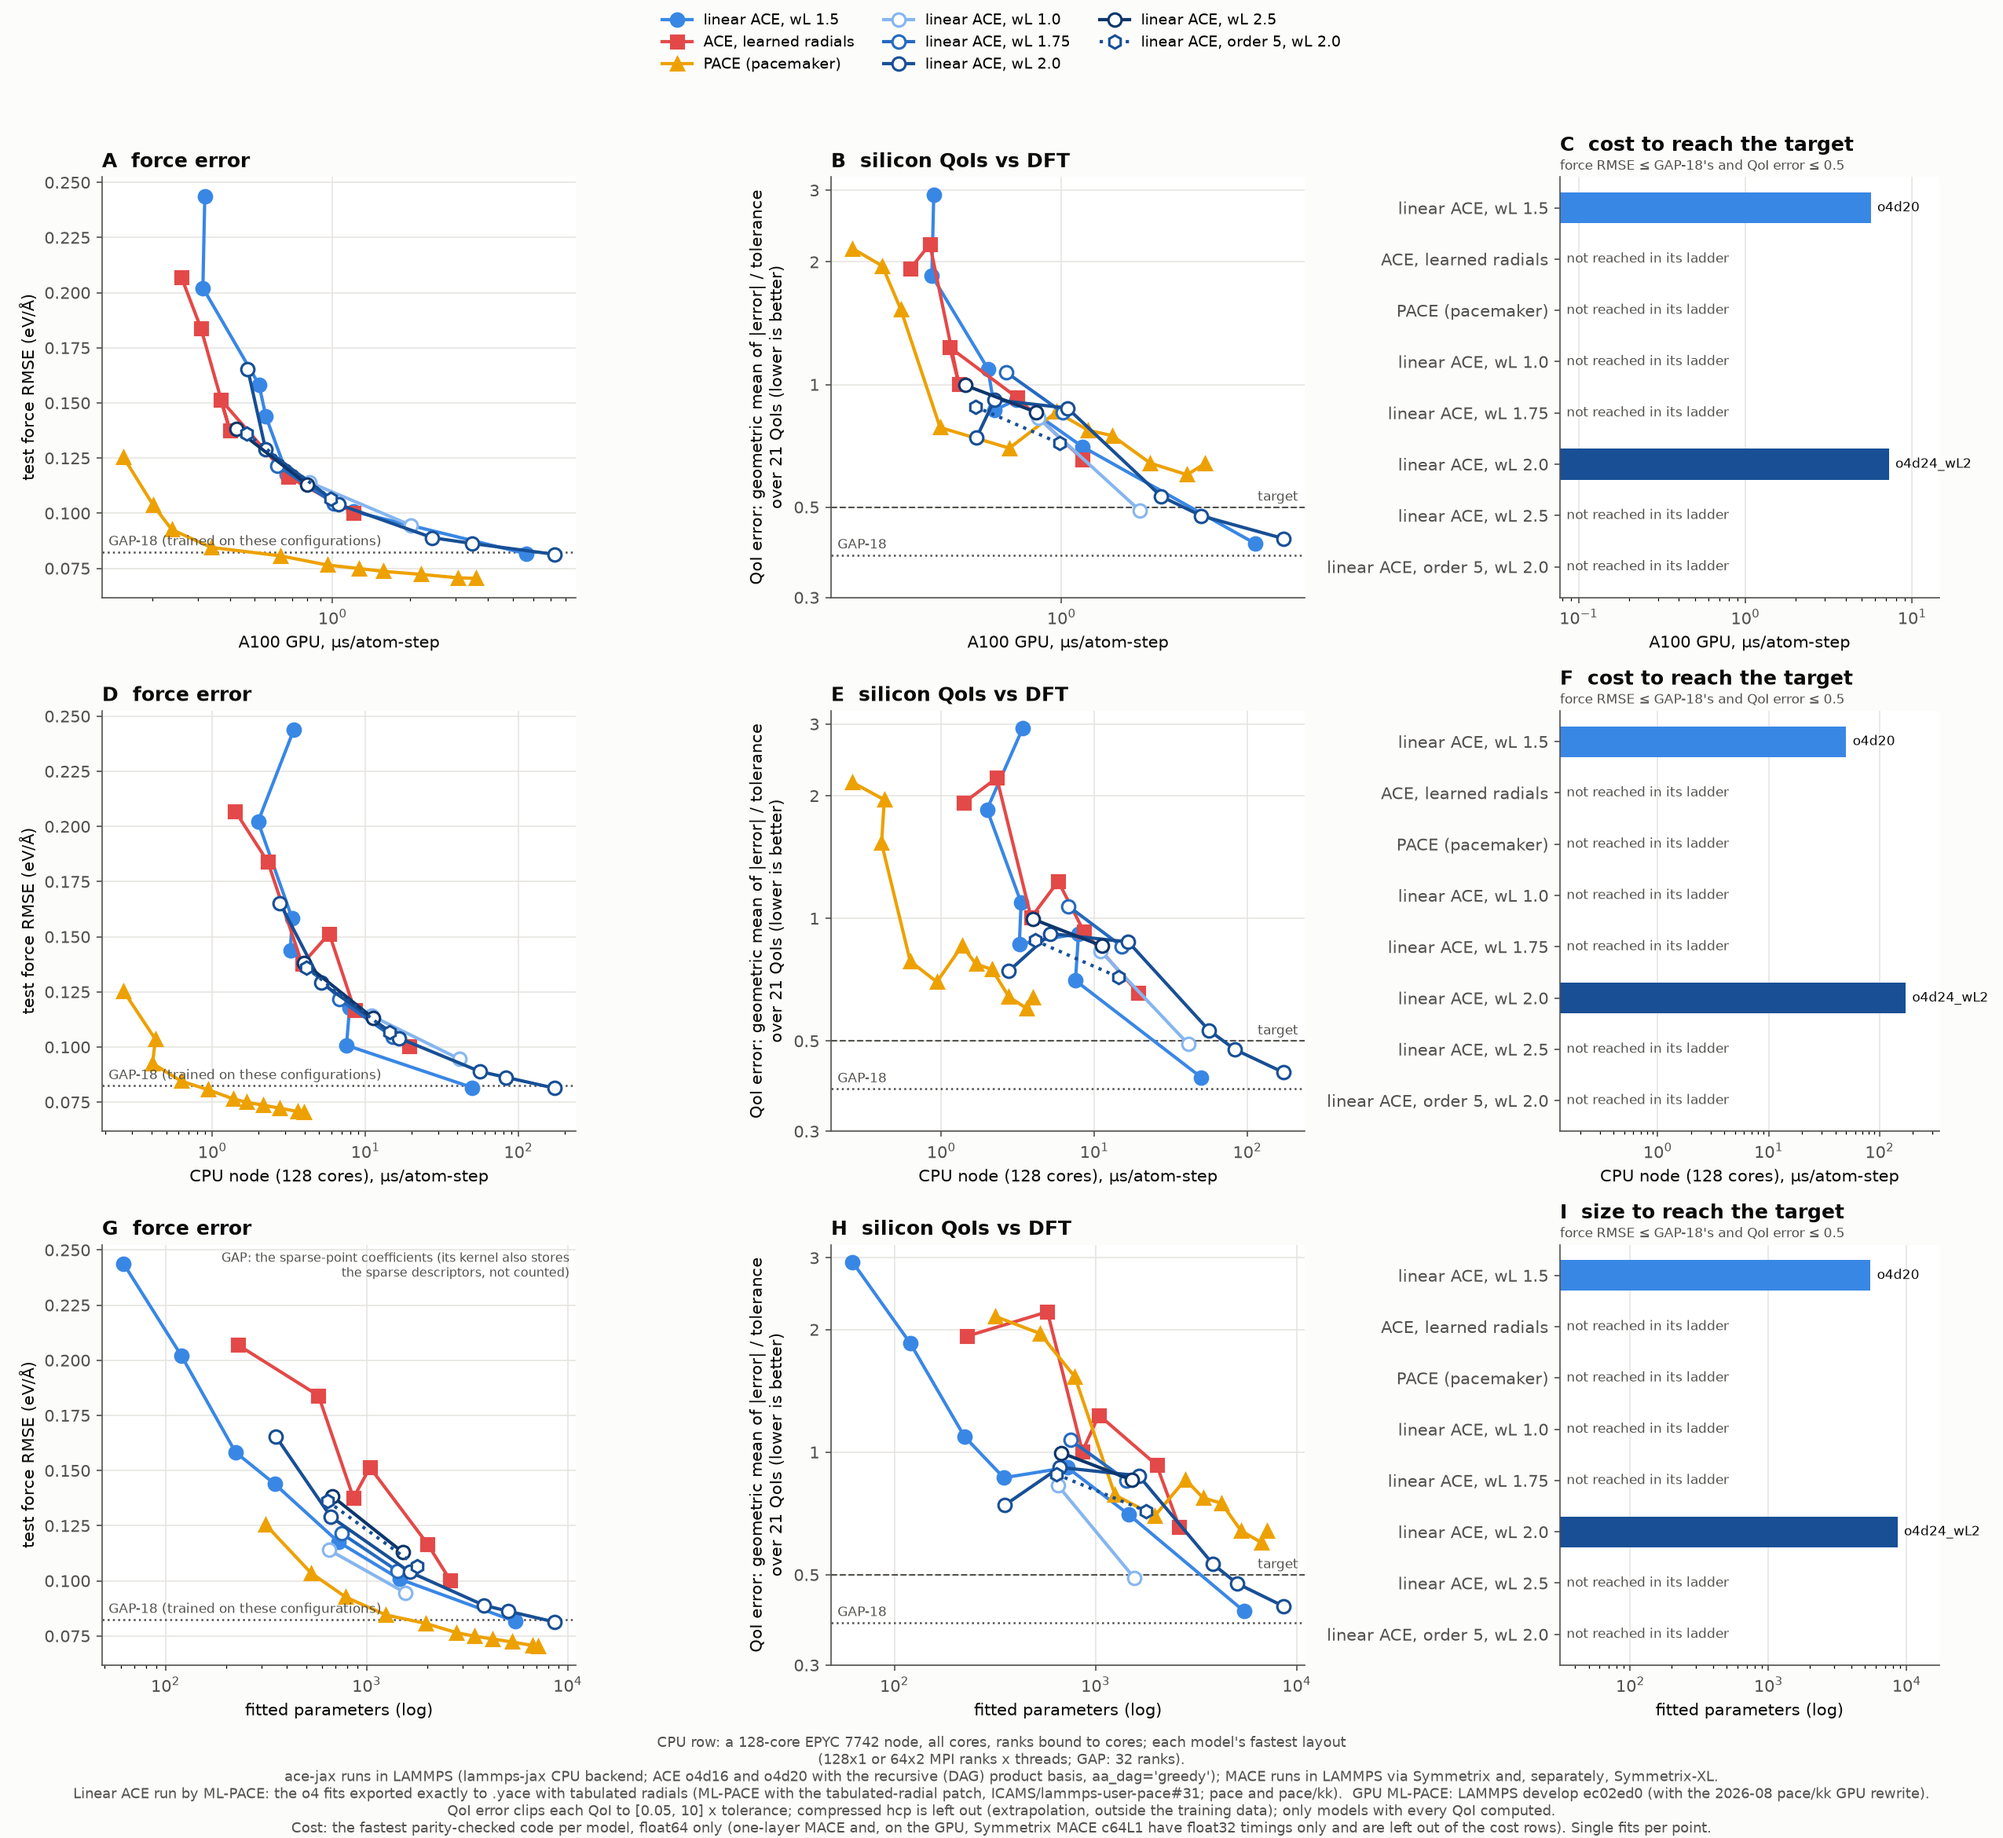
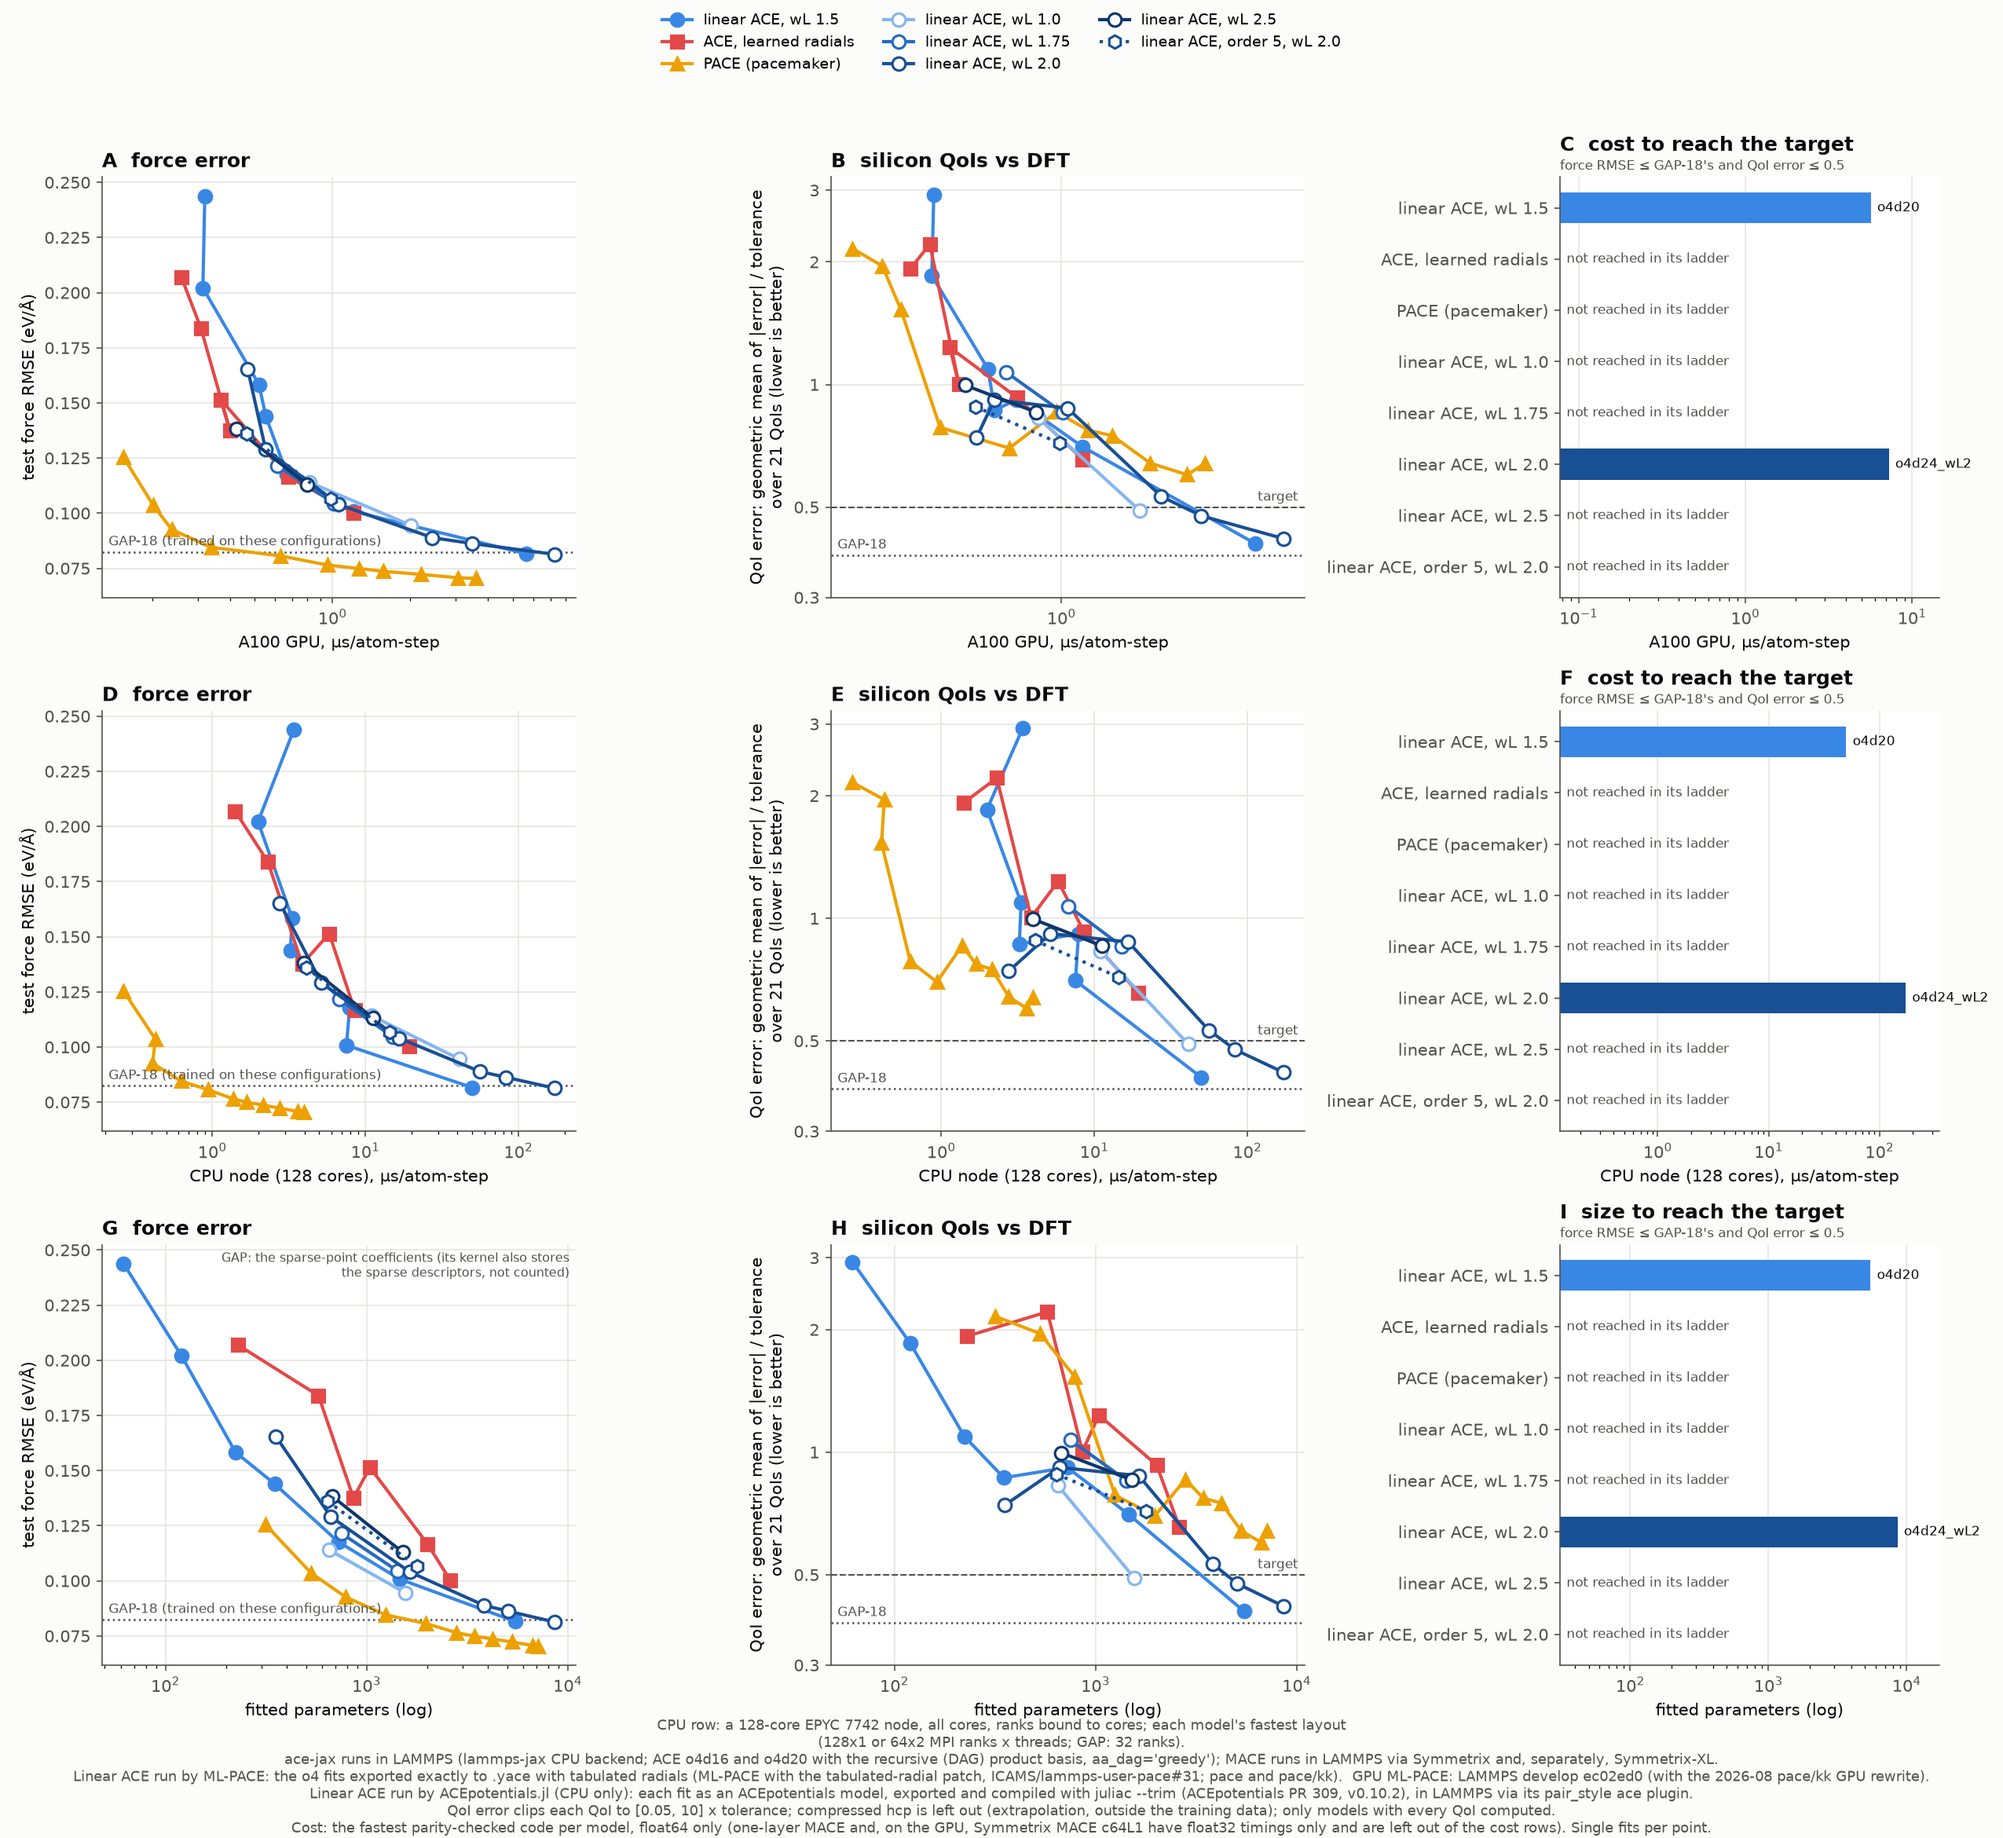
bench(accuracy-cost): ACEpotentials.jl trim rows on the Sulis CPU node, cost plots and results

Changed region(s): [[0.062, 0.9359, 0.9604, 0.9983]]

diff --git a/bench/si_qoi/plot_cost.py b/bench/si_qoi/plot_cost.py
@@ -284,6 +284,8 @@ def main():
                 "ace-jax runs in LAMMPS (lammps-jax CPU backend; ACE o4d16 and o4d20 with the recursive (DAG) product basis, aa_dag='greedy'); MACE runs in LAMMPS via Symmetrix and, separately, Symmetrix-XL.\n"
                 "Linear ACE run by ML-PACE: the o4 fits exported exactly to .yace with tabulated radials (ML-PACE with the tabulated-radial patch, ICAMS/lammps-user-pace#31; pace and pace/kk).  "
                 "GPU ML-PACE: LAMMPS develop ec02ed0 (with the 2026-08 pace/kk GPU rewrite).\n"
+                "Linear ACE run by ACEpotentials.jl (CPU only): each fit as an ACEpotentials model, exported and compiled "
+                "with juliac --trim (ACEpotentials PR 309, v0.10.2), in LAMMPS via its pair_style ace plugin.\n"
                 if any("CPU" in r[0] for r in rows) else "")
     if not a.no_note:
         fig.text(0.5, 0.003, cpu_note + "QoI error clips each QoI to [0.05, 10] x tolerance; compressed hcp is left out (extrapolation, "

diff --git a/docs/dev/accuracy-cost-results.md b/docs/dev/accuracy-cost-results.md
@@ -27,6 +27,7 @@ Cheapest model reaching the target, µs/atom-step, float64, LAMMPS:
 |---|---|---|---|---|---|
 | linear ACE o4d20, ace-jax (lammps-jax) | 5,476 | 0.0816 | 0.41 | 5.65 | 50.0 |
 | linear ACE o4d20, ML-PACE (tabulated radials) | 5,476 | 0.0816 | 0.41 | 4.12 | 5.39 |
+| linear ACE o4d20, ACEpotentials.jl (trim library) | 5,476 | 0.0816 | 0.41 | – | 10.8 |
 | MACE c16L0, Symmetrix | 31,152 | 0.0699 | < 0.5 | 1.93 | 2.36 |
 | MACE c16L0, Symmetrix-XL | 31,152 | 0.0699 | < 0.5 | 1.23 | 2.19 |
 | MACE c16L1, Symmetrix | 40,272 | 0.0579 | < 0.5 | 5.36 | 8.58 |
@@ -51,6 +52,11 @@ parameters than linear ACE (f800: 761 parameters, 0.081 eV/Å) but not the QoI t
   `ml-pace-tabulated-radials.md`), o4d20 runs at 5.39 µs/atom-step on 128 ranks against 50.0 through the
   lammps-jax CPU backend with the DAG product basis, and 3.98 for PACE f3200. On the A100 the gap is smaller
   (4.12 vs 5.65).
+- **ACEpotentials.jl's compiled export** (the same fits as ACEpotentials models, `juliac --trim` libraries in
+  LAMMPS, ACEpotentials PR 309) is the fastest CPU code for linear ACE up to o4d14: 0.10 µs/atom-step at o3d8
+  and 0.59 at o4d14, against 0.85 for ML-PACE (o4d14) and 3.4-7.9 for lammps-jax. It ties ML-PACE at o4d16
+  (1.42 vs 1.41) and is 2x slower at o4d20 (10.8 vs 5.39), still 4.6x faster than lammps-jax there. Parity
+  against ace-jax on the npz: |dE|/atom <= 6.5e-12 eV, |dF| <= 1.2e-11 eV/Å over the ladder. CPU only.
 - **Symmetrix-XL** is 1.1-3.6x faster than Symmetrix for the same MACE models, most at L = 1 on the GPU.
 - **The DAG product basis** (`aa_dag="greedy"`, #90) gives ace-jax's fastest CPU rows at o4d16 and o4d20; it
   also cuts the compiled temporary memory (o4d20: 3.9 GB to 0.64 GB on one core).
@@ -68,6 +74,11 @@ parameters than linear ACE (f800: 761 parameters, 0.081 eV/Å) but not the QoI t
   o4d20 with `aa_dag="greedy"`). ML-PACE on the GPU: LAMMPS develop ec02ed0 (Stan Moore's 2026-08 `pace/kk`
   rewrite; about 2x faster than the 10Sep2025 patch release). Linear ACE run by ML-PACE: that tree with
   `LOCAL_ML-PACE` = v.2025.12.4.p1 + the tabulated-radial patch (`bench/scaling/envs/sulis-pacetab.sh`).
+  Linear ACE run by ACEpotentials.jl: each `aj fit` model rebuilt as an ACEpotentials v0.10.2 `ace_model`
+  (`bench/scaling/julia/build_trim_acejax.jl`: coefficients mapped through the AA basis, gated to 1e-10 against
+  ace-jax before compiling), exported with `for_library=true` and compiled by `juliac --trim=safe` on a compute
+  node (Julia 1.12.6; `accuracy_cost/build_trim.py`, `envs/sulis-cpu-trim.sbatch`), run by the PR 309
+  `pair_style ace` plugin in the same LAMMPS (`bench/scaling/envs/sulis-acepot.sh`); 128 x 1 ranks only.
 - QoIs: compressed ("short and fat") hcp is left out of the score (outside the training data; it measures
   extrapolation); only models with every QoI computed are plotted. Single fits per point.
 - GAP's parameter count is its sparse-point coefficients; the kernel also stores the sparse descriptors.

diff --git a/docs/user/benchmarks.md b/docs/user/benchmarks.md
@@ -40,6 +40,7 @@ At the target, in microseconds per atom-step:
 |---|---|---|
 | linear ACE o4d20, ace-jax with lammps-jax | 5.65 | 50.0 |
 | linear ACE o4d20, ML-PACE | 4.12 | 5.39 |
+| linear ACE o4d20, ACEpotentials.jl | – | 10.8 |
 | MACE c16L0, Symmetrix | 1.93 | 2.36 |
 | MACE c16L0, Symmetrix-XL | 1.23 | 2.19 |
 | MACE c16L1, Symmetrix | 5.36 | 8.58 |
@@ -48,6 +49,10 @@ At the target, in microseconds per atom-step:
 In these ladders, PACE (pacemaker), ACE with learned radials, PACE-shaped
 ACE and the GAP refits do not reach the target. PACE reaches the force error
 of GAP-18 with fewer parameters than linear ACE, but not the QoI target.
+
+On the CPU, the ACEpotentials.jl compiled library is the fastest code for
+linear ACE up to o4d14. It has the same speed as ML-PACE at o4d16. At
+o4d20 it is 2 times slower than ML-PACE.
 
 ### How the cost was measured
 
@@ -63,6 +68,11 @@ of GAP-18 with fewer parameters than linear ACE, but not the QoI target.
   `.yace` files with tabulated radial functions
   ([Write an ACE model as a .yace file](howto/pace.md)). They run in
   `pair_style pace` (CPU) and `pair_style pace/kk` (GPU).
+- **Linear ACE, run by ACEpotentials.jl.** The same linear ACE fits are
+  converted to ACEpotentials.jl models. Each model is compiled to a shared
+  library with `juliac --trim` and runs in LAMMPS with the ACEpotentials.jl
+  `pair_style ace` plugin. These results are for the CPU only, with 128 MPI
+  ranks.
 - **ML-PACE** on the GPU is the LAMMPS development version with the 2026
   `pace/kk` GPU update.
 - **MACE** runs in LAMMPS with Symmetrix and, separately, with
